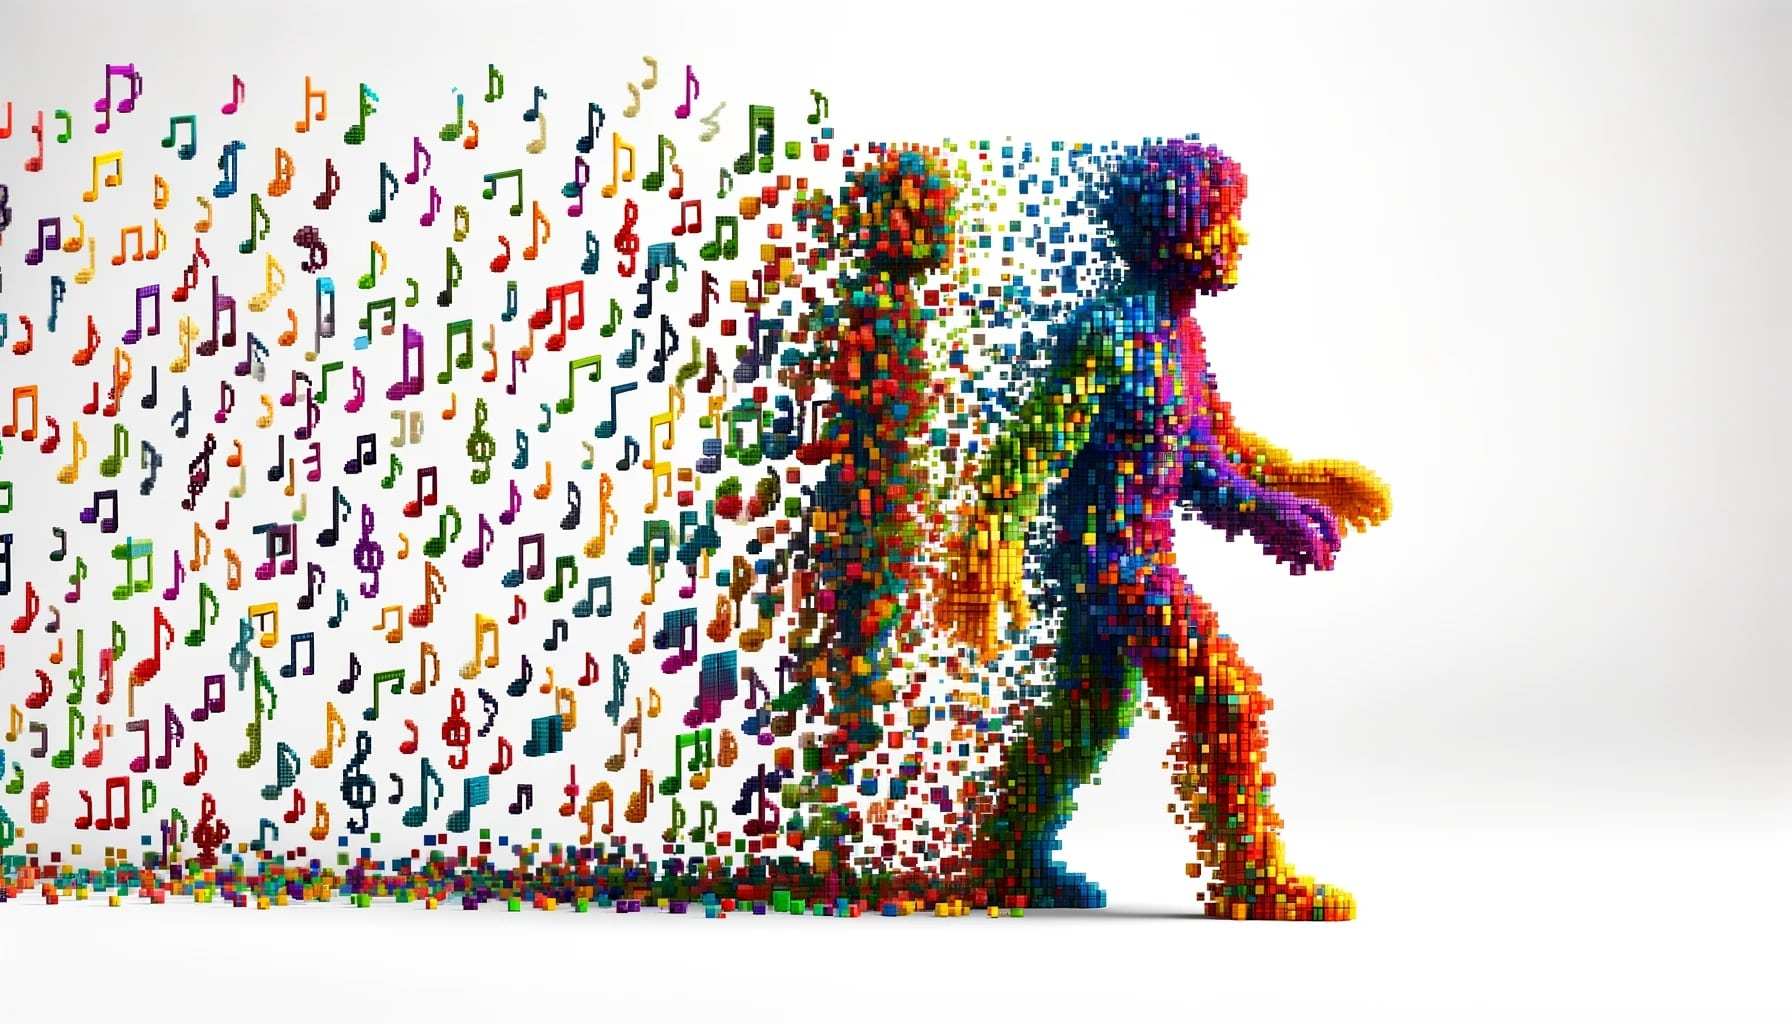
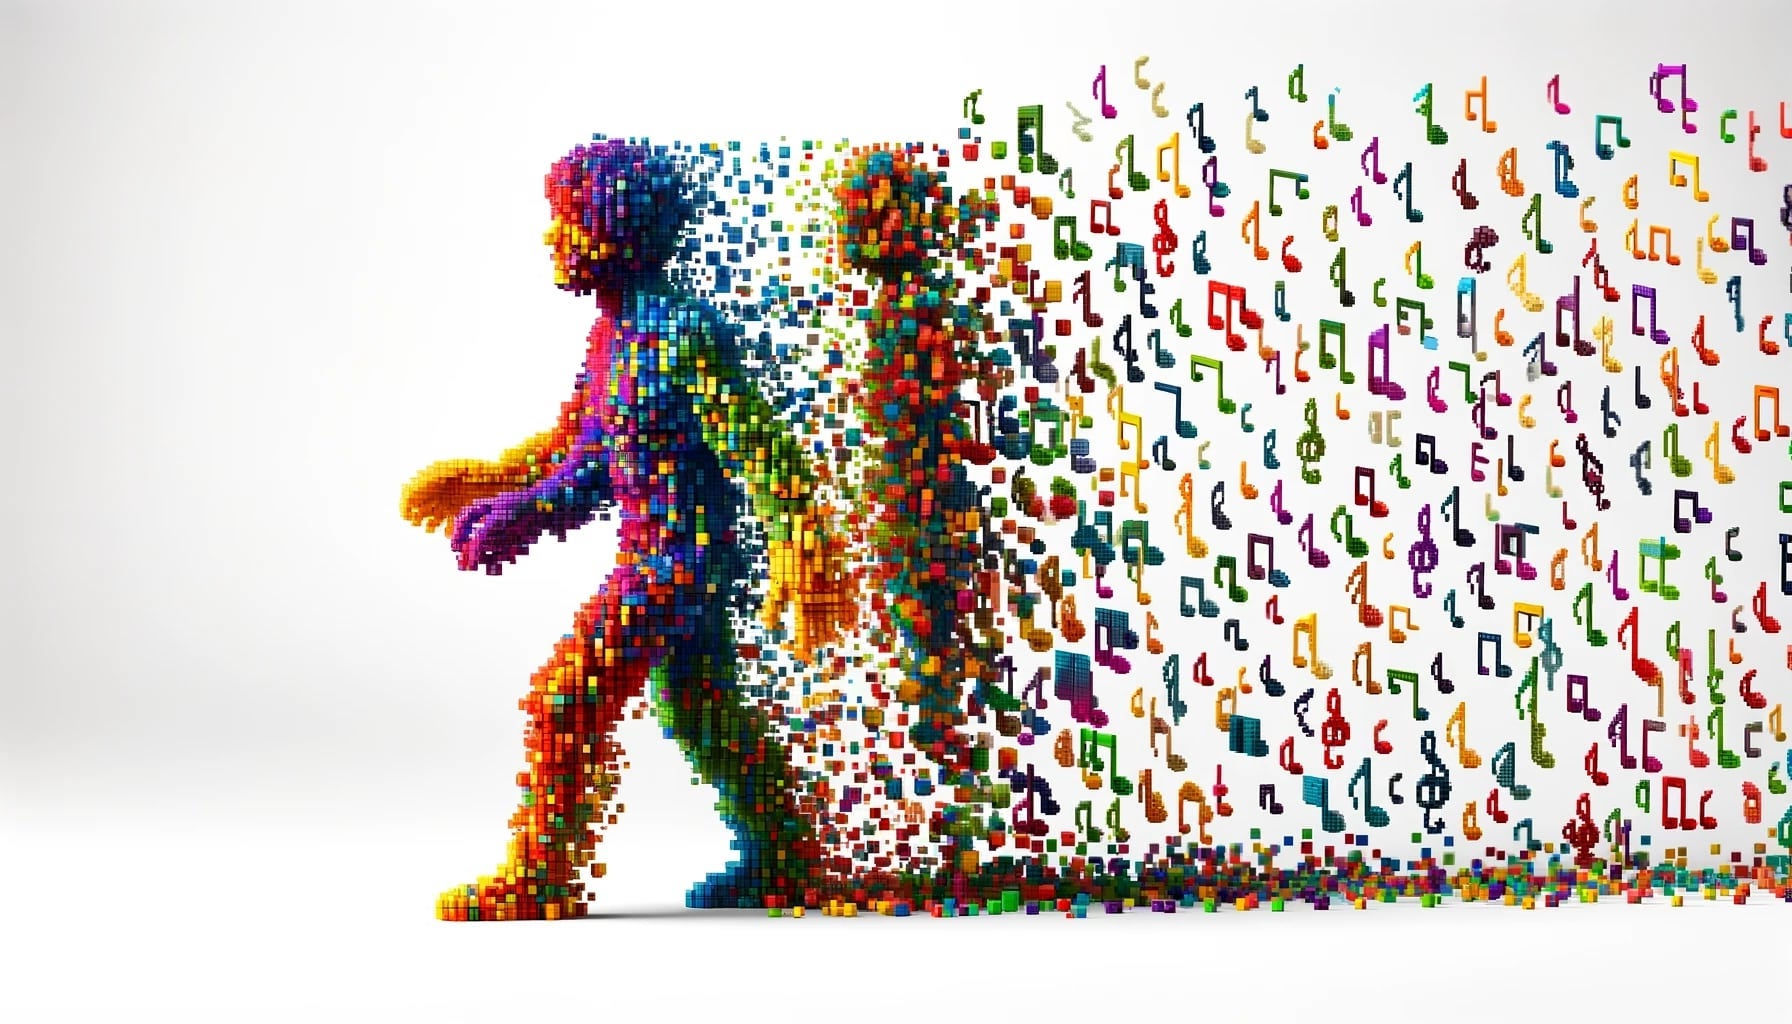
frontend changes

diff --git a/templates/index.html b/templates/index.html
@@ -4,18 +4,30 @@
     <title>Rhythmoji</title>
     <link href="https://fonts.googleapis.com/css2?family=Montserrat:wght@300;400;700&family=Roboto+Slab:wght@400;700&display=swap" rel="stylesheet">
     <style>
+        /* Your CSS styles here */
         body {
             font-family: 'Montserrat', sans-serif;
             background-color: #ffffff;
             color: #333;
             margin: 0;
-            padding: 60px;
-            position: relative; /* Needed for absolute positioning of the image */
+            padding: 0;
+            overflow-x: hidden; /* Hide horizontal scrollbar */
         }
 
-        .content {
+        .container {
+            margin-top:500px
+            display: flex;
+            flex-direction: column;
+            justify-content: center;
+            align-items: center;
+            height: 100vh; /* 100% of the viewport height */
+        }
+
+        .header-content {
+            text-align: left;
             max-width: 600px;
-            margin-right: auto; /* Align content to the left */
+            margin: 0 20px; /* Add some margin for spacing */
+            margin-right:50px;
         }
 
         h1 {
@@ -42,6 +54,7 @@
             font-size: 1.2em;
             border: 2px solid transparent;
             transition: background-color 0.3s, transform 0.3s, border-color 0.3s;
+            margin-top: 20px; /* Add some top margin for spacing */
         }
 
         .spotify-login-btn:hover {
@@ -51,21 +64,13 @@
             transform: translateY(-5px);
         }
 
-        .image-placeholder {
-        position: fixed; /* Fixed positioning relative to the viewport */
-        right: 0; /* Align with the right edge of the viewport */
-        bottom: 0; /* Align with the bottom edge of the viewport */
-        max-width: 75%;
-        height: auto;
-        max-height: 500px; /* Maximum height */
-        border-radius: 15px;
-        }
-
         .image-placeholder img {
-        width: 100%; /* Ensure the image takes the full width of its container */
-        height: auto; /* Maintain aspect ratio */
+            max-width: 70%;
+            max-height: 50%;
+            margin-top:-200px;
+            margin-left:900px;
+            margin-bottom:100px;
         }
-
 
         .main-nav ul {
             list-style: none;
@@ -84,53 +89,52 @@
         .main-nav a:hover {
             color: #2193b0;
         }
-        .rhythmoji-container {
-    position: relative;
-    text-align: center;
-}
 
-    #rhythmoji {
-        font-size: 2em;
-        /* Additional styling for Rhythmoji text */
-    }
-
-    .animated-notes .note {
-        position: absolute;
-        font-size: 1.5em;
-        /* Basic styling for notes */
-        animation: orbit 5s linear infinite;
-        /* Adjust size, color, etc., as needed */
-    }
-
-    /* Define keyframes for the orbit animation */
-    @keyframes orbit {
-        0% { transform: rotate(0deg) translateX(100px); }
-        100% { transform: rotate(360deg) translateX(100px); }
-    }
-
+        /* "About" section styling */
+        #about {
+            text-align: center;
+            padding: 60px;
+            background-color: #1DB954;
+            color: white;
+            margin-top:-100px;
+        }
     </style>
+    <script>
+        // JavaScript function to scroll to the "About" section
+        function scrollToAbout() {
+            const aboutSection = document.getElementById("about");
+            aboutSection.scrollIntoView({ behavior: "smooth" });
+        }
+    </script>
 </head>
 <body>
     <header>
         <nav class="main-nav">
             <ul>
-                <li><a href="/about">About</a></li>
+                <!-- Use anchor links to scroll to the "about" section -->
+                <li><a href="javascript:void(0);" onclick="scrollToAbout()">About</a></li>
                 <li><a href="/privacy">Privacy</a></li>
                 <li><a href="/donate">Buy Us a Coffee</a></li>
             </ul>
         </nav>
     </header>
-    <div class="content">
-        <h1>Rhythmoji</h1>
-        
-        <p>Explore your music taste and discover new tunes with Rhythmoji. Connect with Spotify to begin.</p>
-        <a href="/login" class="spotify-login-btn">Login with Spotify</a>
+    <div class="container">
+        <div class="header-content">
+            <h1>Rhythmoji</h1>
+            
+            <p>Discover your Spotify avatar at Rhythmoji — a human representation of your listening habits.</p>
+            <a href="/login" class="spotify-login-btn">Login with Spotify</a>
+        </div>
+        <div class="image-placeholder">
+            <img src="/static/updatedImage.jpg" alt="Placeholder Image">
+        </div>
     </div>
-    <div class="image-placeholder">
-        <img src="walkingrhythomoij.png" alt="Placeholder Image">
-    </div>
-    <div class="music-notes">
-        <!-- Animated music notes or other graphics -->
+
+    <!-- "About" section starts here -->
+    <div id="about">
+        <h2>About Us</h2>
+        <p>Your description here.</p>
+        <p>Your co-founder's description here.</p>
     </div>
 </body>
 </html>
